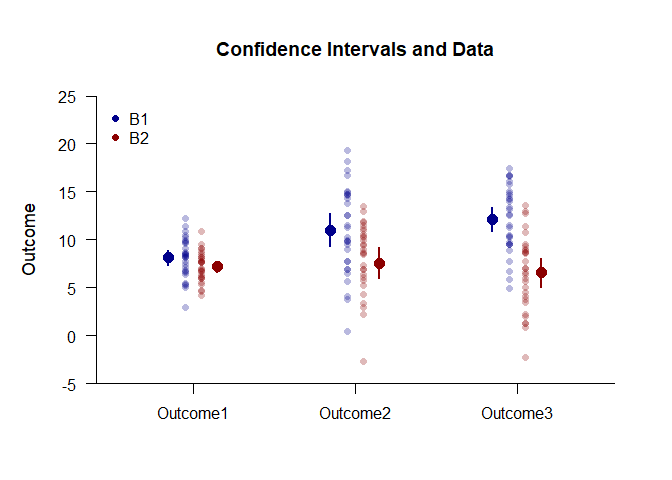
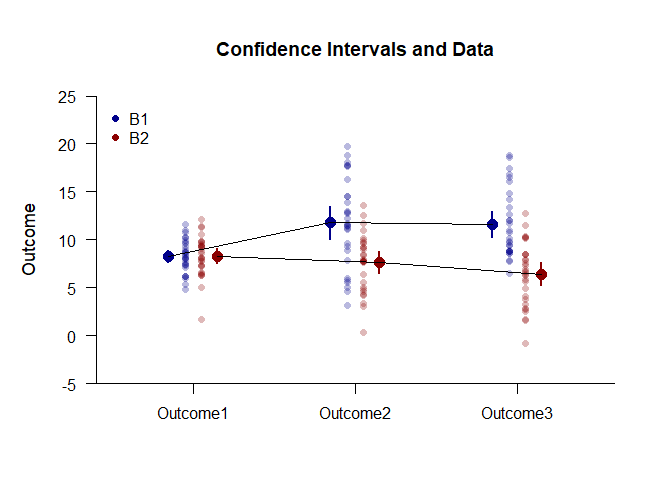
Updated applications

diff --git a/docs/applications/ExpositionMixedDataApplications.md b/docs/applications/ExpositionMixedDataApplications.md
@@ -43,9 +43,9 @@ Use a similar process to obtain the tables of confidence interval estimates.
 ```
 ## $`Confidence Intervals for the Means`
 ##                M      SE      df      LL      UL
-## Outcome1   8.125   0.385  29.000   7.338   8.911
-## Outcome2  10.998   0.839  29.000   9.281  12.714
-## Outcome3  12.144   0.628  29.000  10.859  13.429
+## Outcome1   8.292   0.313  29.000   7.651   8.933
+## Outcome2  11.809   0.843  29.000  10.084  13.533
+## Outcome3  11.626   0.643  29.000  10.312  12.940
 ```
 
 ```r
@@ -55,9 +55,9 @@ Use a similar process to obtain the tables of confidence interval estimates.
 ```
 ## $`Confidence Intervals for the Means`
 ##                M      SE      df      LL      UL
-## Outcome1   7.227   0.283  29.000   6.648   7.806
-## Outcome2   7.604   0.795  29.000   5.979   9.229
-## Outcome3   6.572   0.719  29.000   5.102   8.042
+## Outcome1   8.297   0.385  29.000   7.511   9.084
+## Outcome2   7.633   0.547  29.000   6.513   8.753
+## Outcome3   6.428   0.595  29.000   5.211   7.646
 ```
 
 ### Analyses of the Simple Effects
@@ -71,9 +71,9 @@ Using the pipe operators, get the source table for each simple effect.
 ```
 ## $`Source Table for the Model`
 ##               SS      df      MS
-## Subjects 339.844  29.000  11.719
-## Measures 257.233   2.000 128.616
-## Error    745.295  58.000  12.850
+## Subjects 392.715  29.000  13.542
+## Measures 235.151   2.000 117.575
+## Error    670.534  58.000  11.561
 ```
 
 ```r
@@ -83,9 +83,9 @@ Using the pipe operators, get the source table for each simple effect.
 ```
 ## $`Source Table for the Model`
 ##               SS      df      MS
-## Subjects 323.641  29.000  11.160
-## Measures  16.372   2.000   8.186
-## Error    744.797  58.000  12.841
+## Subjects 169.544  29.000   5.846
+## Measures  53.859   2.000  26.929
+## Error    528.227  58.000   9.107
 ```
 Test each simple effect for statistical significance.
 
@@ -96,7 +96,7 @@ Test each simple effect for statistical significance.
 ```
 ## $`Hypothesis Test for the Model`
 ##                F     df1     df2       p
-## Measures  10.009   2.000  58.000   0.000
+## Measures  10.170   2.000  58.000   0.000
 ```
 
 ```r
@@ -106,7 +106,7 @@ Test each simple effect for statistical significance.
 ```
 ## $`Hypothesis Test for the Model`
 ##                F     df1     df2       p
-## Measures   0.637   2.000  58.000   0.532
+## Measures   2.957   2.000  58.000   0.060
 ```
 Obtain the proportion of variance accounted for by each simple effect.
 
@@ -117,7 +117,7 @@ Obtain the proportion of variance accounted for by each simple effect.
 ```
 ## $`Proportion of Variance Accounted For by the Model`
 ##              Est      LL      UL
-## Measures   0.257   0.094   0.382
+## Measures   0.260   0.097   0.385
 ```
 
 ```r
@@ -127,5 +127,5 @@ Obtain the proportion of variance accounted for by each simple effect.
 ```
 ## $`Proportion of Variance Accounted For by the Model`
 ##              Est      LL      UL
-## Measures   0.022   0.000   0.090
+## Measures   0.093   0.000   0.203
 ```
